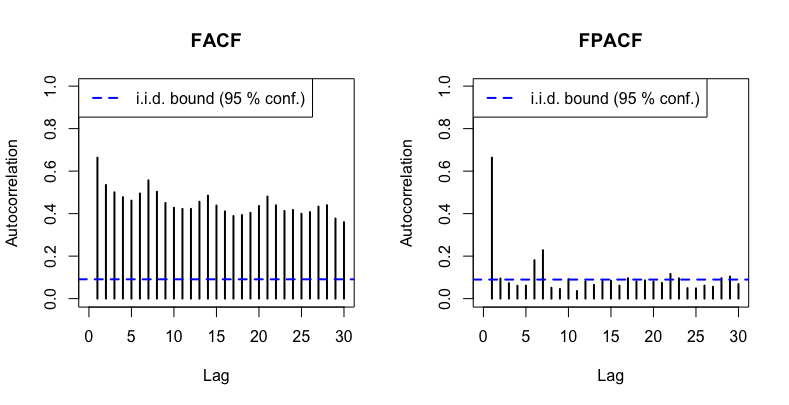
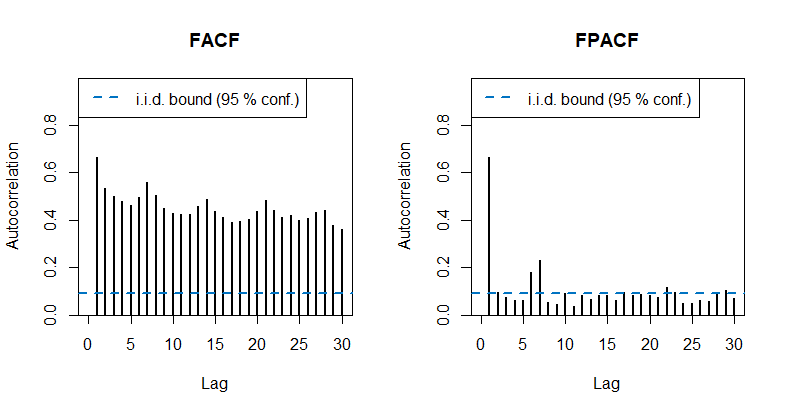
Update README figures
Generate figures using the new version of fdaACF

diff --git a/README.md b/README.md
@@ -115,7 +115,7 @@ The functional ACF and PACF are based on the L2 norm of the covariance functions
 N <- 400
 v <- seq(from = 0, to = 1, length.out = 24)
 sig <- 1
-set.seed(10) # For replication
+set.seed(3) # For replication
 Y <- simulate_iid_brownian_bridge(N, v, sig)
 matplot(t(Y), type = "l",lty = 1,xlab = "v", ylab = "", main = "Functional Brownian Bridge")
 ```
